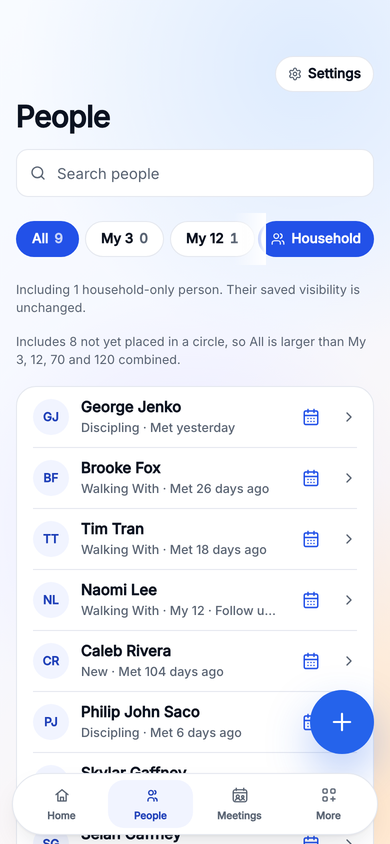
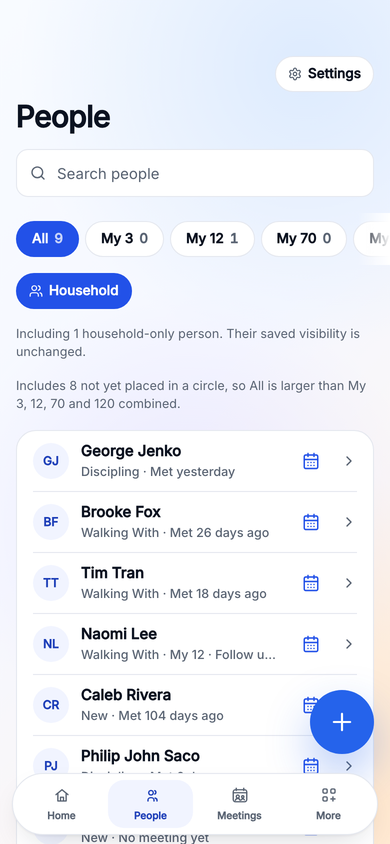
USA-247: wrap the Household control below the rail on narrow screens
The circle rail scrolls when it cannot fit, so a control pinned to its right
edge read as following whichever tab was visible rather than My 120. It now
wraps onto its own line under the rail below sm, and sits inline after My 120
from sm up where the whole rail is on screen.

diff --git a/app/dos/app/DosMvpAppClient.tsx b/app/dos/app/DosMvpAppClient.tsx
@@ -43420,8 +43420,14 @@ export function DosMvpAppClient({ data }: { data: DosAppData }) {
                     full-width Show row that used to sit under Search. It only
                     expands or collapses the list: nobody's saved visibility
                     changes, which is what the copy says. */}
+                {/* The rail scrolls horizontally when it cannot fit, so on a
+                    narrow screen a control pinned to its right edge would look
+                    like it followed whichever tab happened to be visible. Below
+                    sm the control wraps onto its own line directly under the
+                    rail; from sm up, where My 120 is on screen, it sits inline
+                    immediately after it. */}
                 <div className="flex min-w-0 flex-wrap items-center gap-2">
-                  <div className="min-w-0 flex-1">
+                  <div className="w-full min-w-0 sm:w-auto sm:flex-1">
                     <PillRail edgeInset={4} label="Field circles" onChange={setPeopleCircleView} options={peopleCircleTabsWithCounts} value={peopleCircleView} />
                   </div>
                   {secondaryFieldPeopleCount ? (
